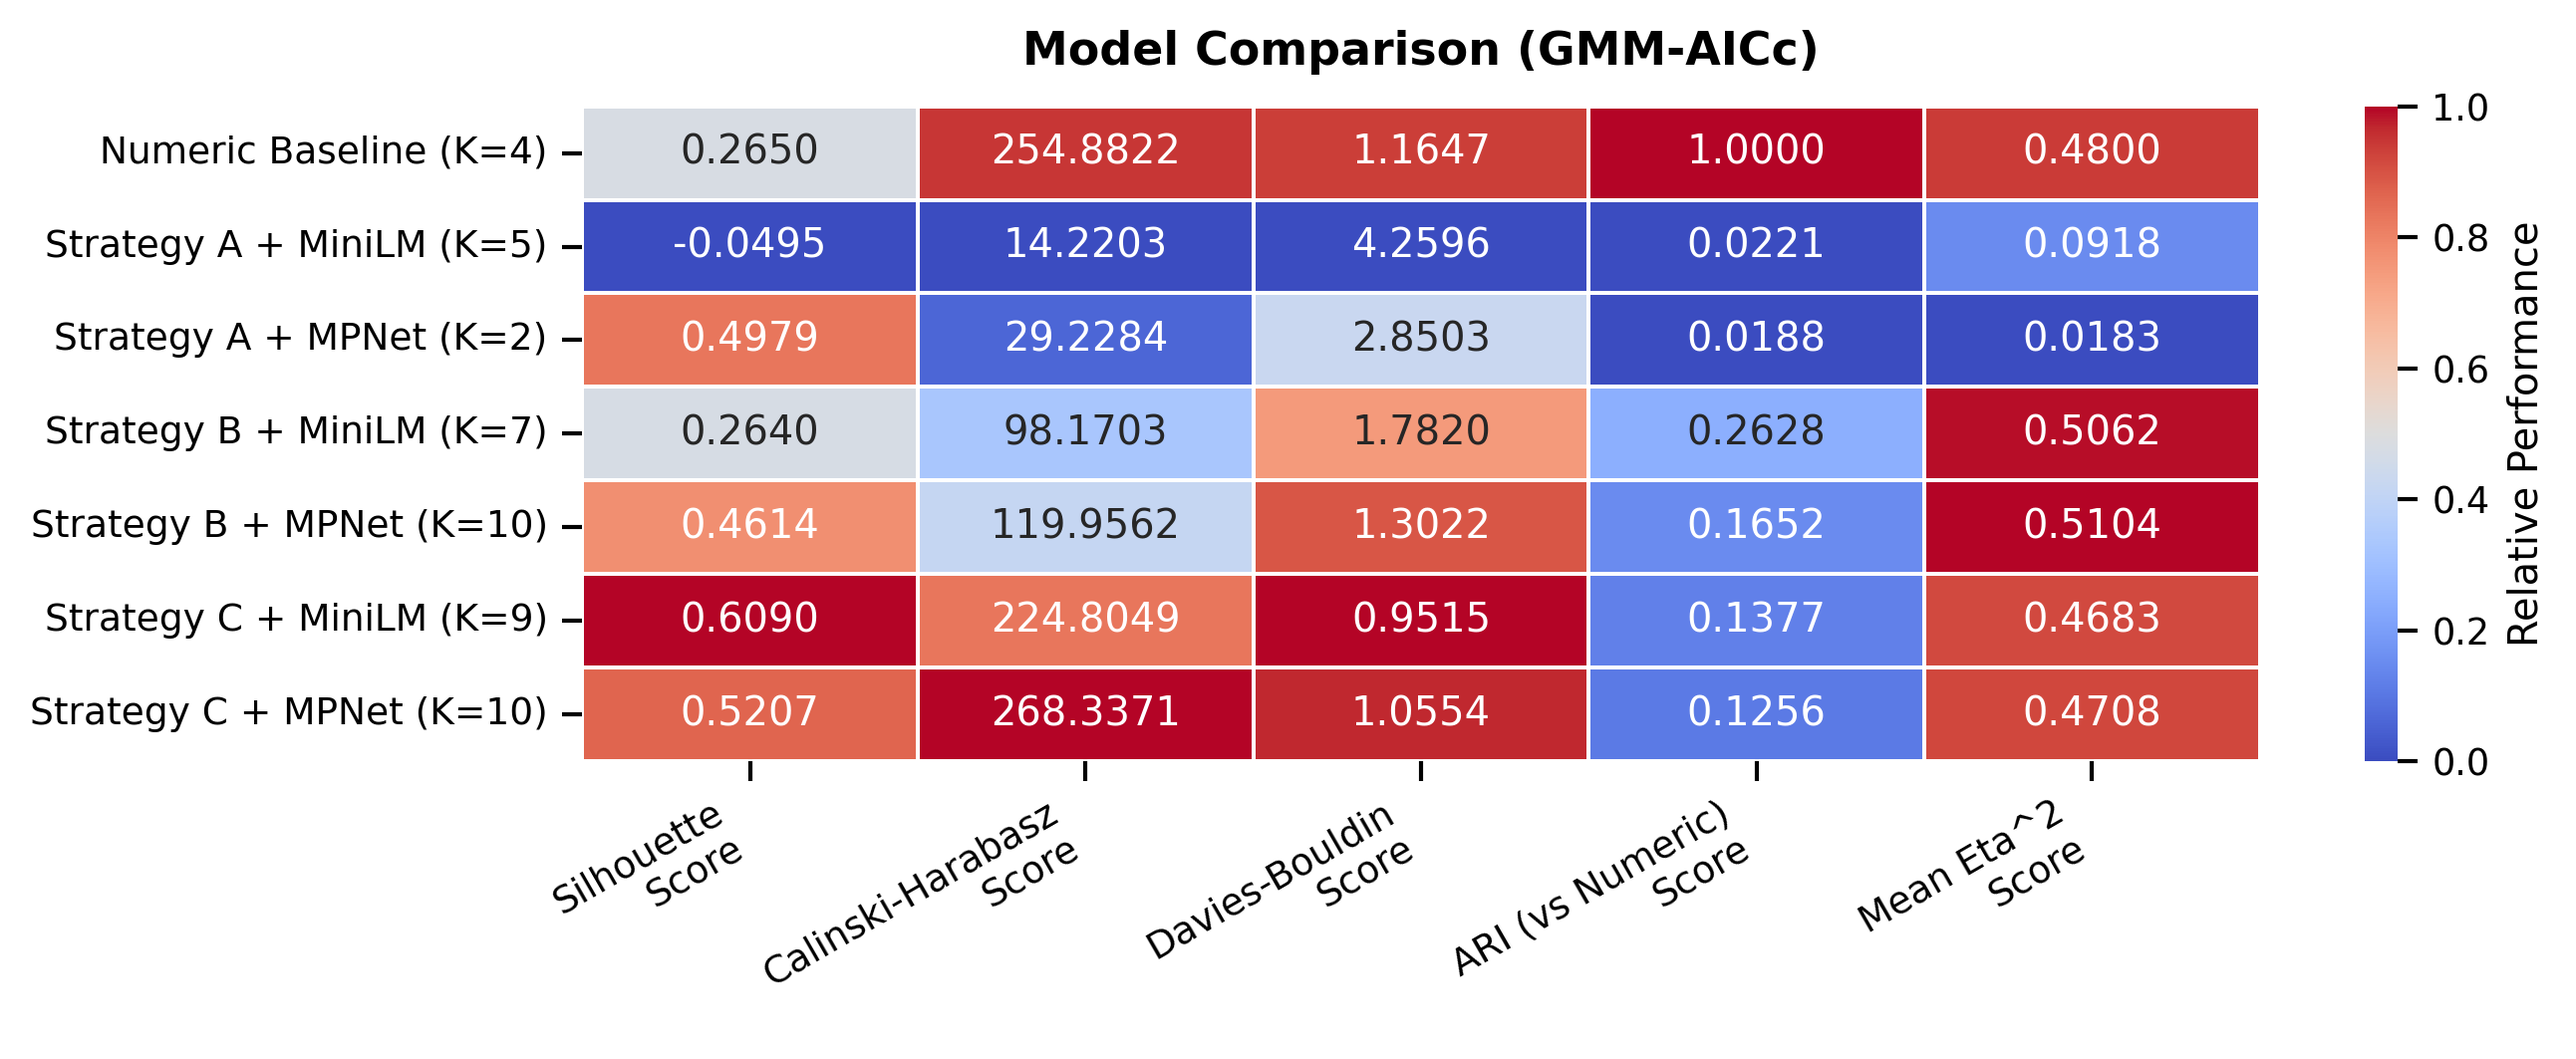
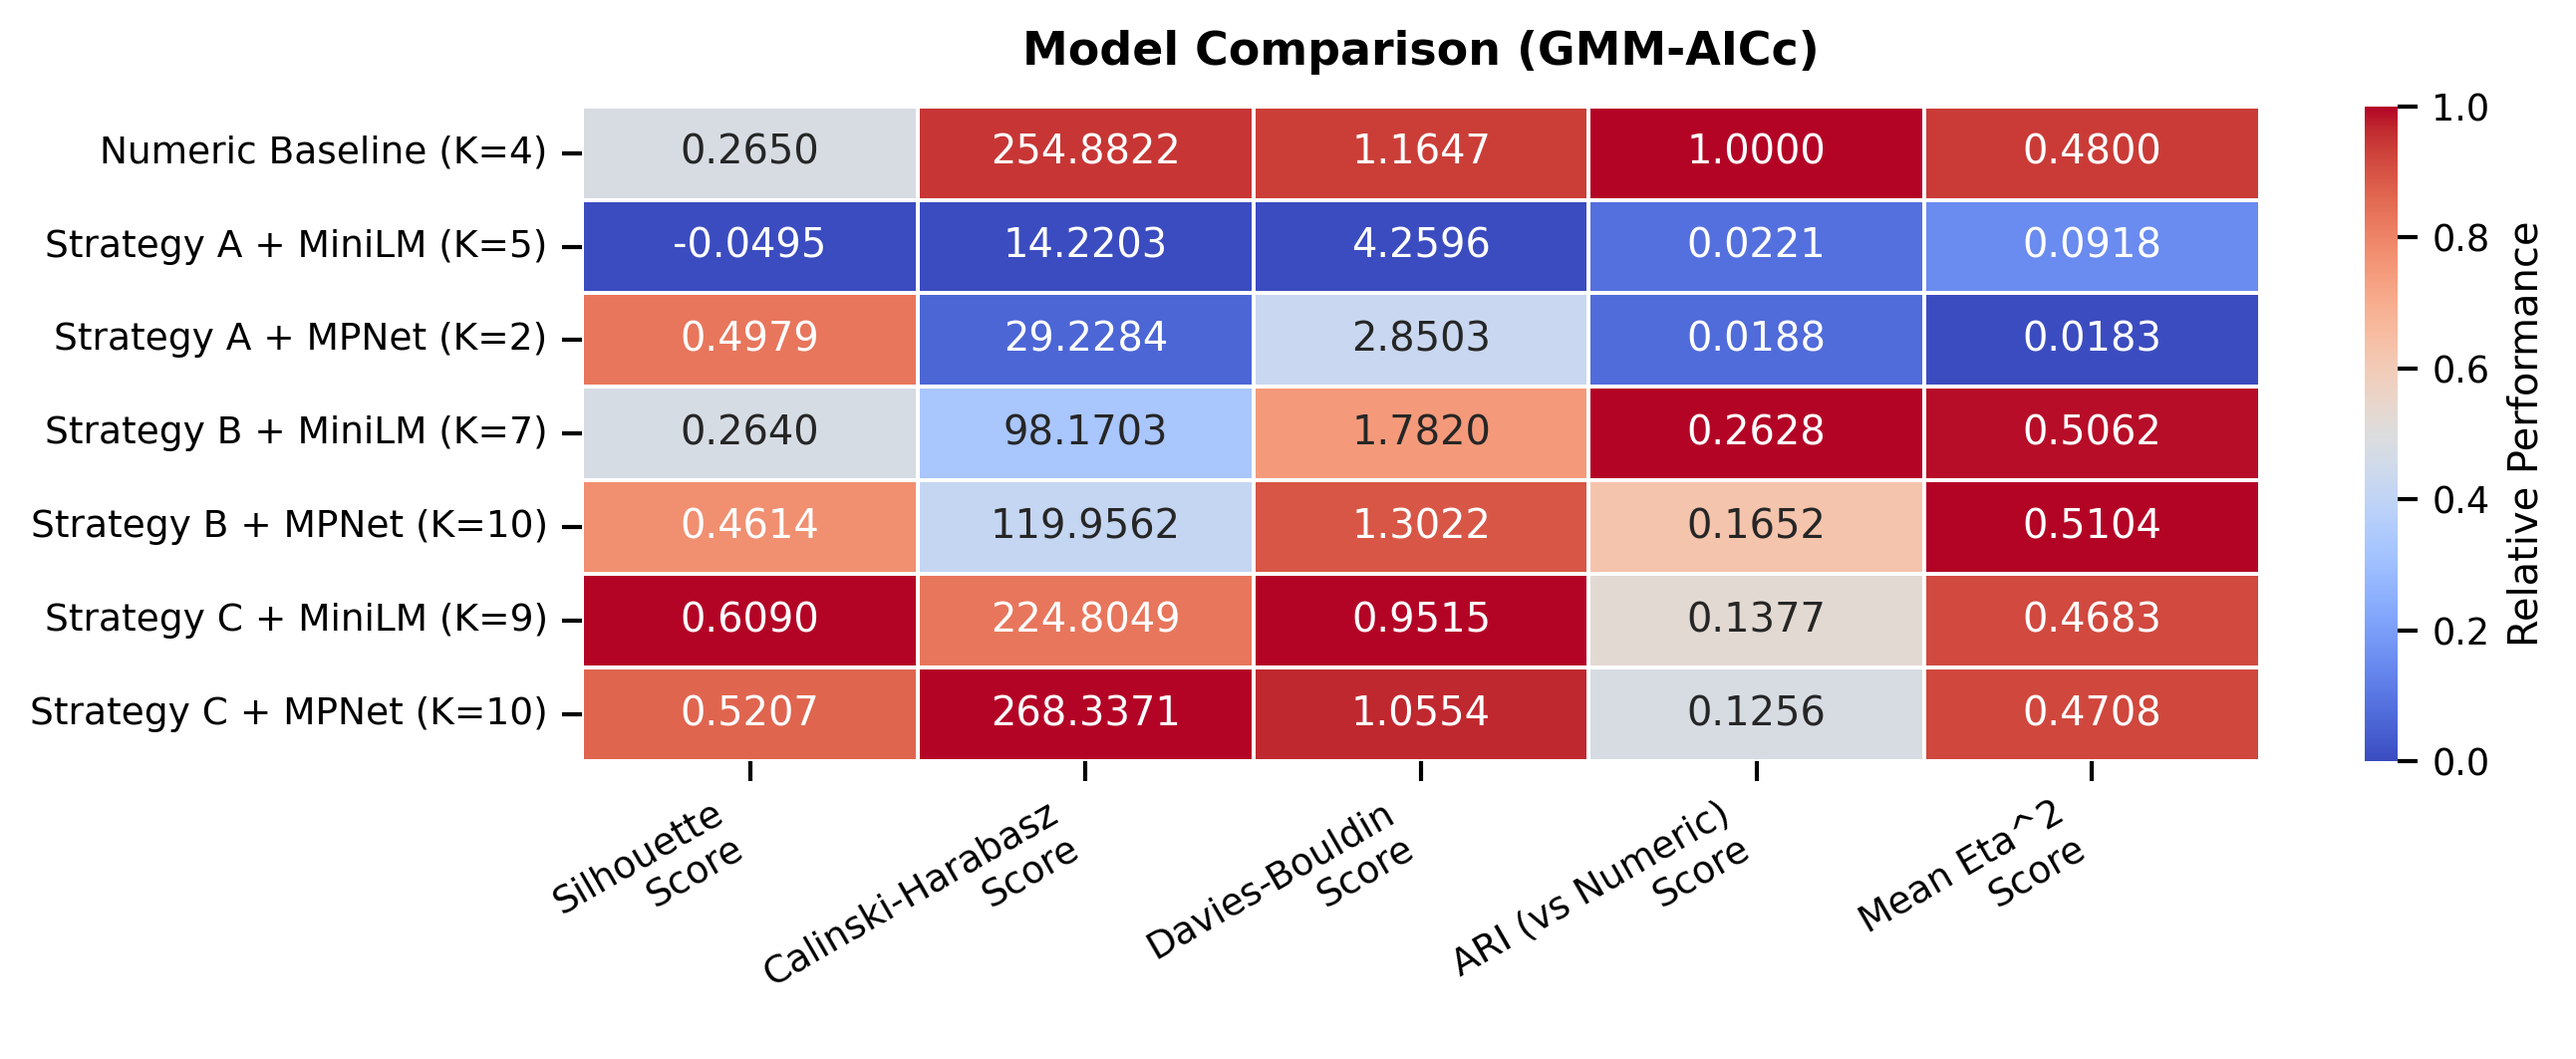
added changes

Changed region(s): [[0.619, 0.1863, 0.7737, 0.714]]

diff --git a/narrative_embedding_clustering/final result/plot_model_comparison_heatmap.py b/narrative_embedding_clustering/final result/plot_model_comparison_heatmap.py
@@ -73,9 +73,9 @@ def plot_heatmap(df):
     df_norm = df_norm.set_index("Model Name")
 
     # Compute normalization stats from non-numeric models (so Numeric Baseline doesn't distort scaling)
-    df_stats = df_norm
-    if "Numeric Baseline" in df_stats.index:
-        df_stats = df_stats.drop("Numeric Baseline")
+    # NOTE: the index label includes K (e.g., "Numeric Baseline (K=4)"), so exclude via Template.
+    is_numeric_baseline = df_norm["Template"].astype(str).str.contains("Numeric", case=False, na=False)
+    df_stats = df_norm.loc[~is_numeric_baseline]
     
     # Normalize metrics to 0-1 score for the Decision Matrix
     # Calculate normalization stats from the filtered dataframe
@@ -118,11 +118,11 @@ def plot_heatmap(df):
                            (0.1 * df_norm["ARI_Norm"])
 
     # Optional: compute baseline composite (ARI is 1.0 by definition for the reference clustering)
-    if "Numeric Baseline" in df_norm.index:
-        df_norm.loc["Numeric Baseline", "ARI_Norm"] = 1.0
-        df_norm.loc["Numeric Baseline", "Composite"] = (0.5 * df_norm.loc["Numeric Baseline", "Eta_Norm"]) + \
-                                                       (0.4 * df_norm.loc["Numeric Baseline", "Internal Score"]) + \
-                                                       (0.1 * df_norm.loc["Numeric Baseline", "ARI_Norm"])
+    if is_numeric_baseline.any():
+        df_norm.loc[is_numeric_baseline, "ARI_Norm"] = 1.0
+        df_norm.loc[is_numeric_baseline, "Composite"] = (0.5 * df_norm.loc[is_numeric_baseline, "Eta_Norm"]) + \
+                                                        (0.4 * df_norm.loc[is_numeric_baseline, "Internal Score"]) + \
+                                                        (0.1 * df_norm.loc[is_numeric_baseline, "ARI_Norm"])
     
     # Select columns to plot
     cols_to_plot = [

diff --git a/narrative_embedding_clustering/final result/plot_final_table_heatmap.py b/narrative_embedding_clustering/final result/plot_final_table_heatmap.py
@@ -86,9 +86,23 @@ def main():
     color_df = pd.DataFrame(index=annot_df.index, columns=annot_df.columns)
     
     # Apply normalization logic
+    # For ARI: normalize relative to best narrative model (exclude Numeric Baseline)
+    is_numeric_baseline = df.index.str.contains("Numeric", case=False, na=False)
+    df_narrative = df.loc[~is_numeric_baseline]
+    
     for col in metrics:
         invert = ('Davies-Bouldin' in col)
-        color_df[col] = normalize_column(annot_df[col], invert=invert)
+        if 'ARI' in col:
+            # Relative ARI normalization: exclude Numeric Baseline from stats, set baseline to 1.0
+            ari_max = df_narrative[col].max()
+            if ari_max != 0:
+                color_df[col] = df[col] / ari_max
+            else:
+                color_df[col] = 0.0
+            # Ensure Numeric Baseline shows 1.0
+            color_df.loc[is_numeric_baseline, col] = 1.0
+        else:
+            color_df[col] = normalize_column(annot_df[col], invert=invert)
 
     # Plotting - Compact Size for Paper (e.g., 1 column width)
     # 8 inches wide is roughly a full page width, 3.5 inches high is compact
